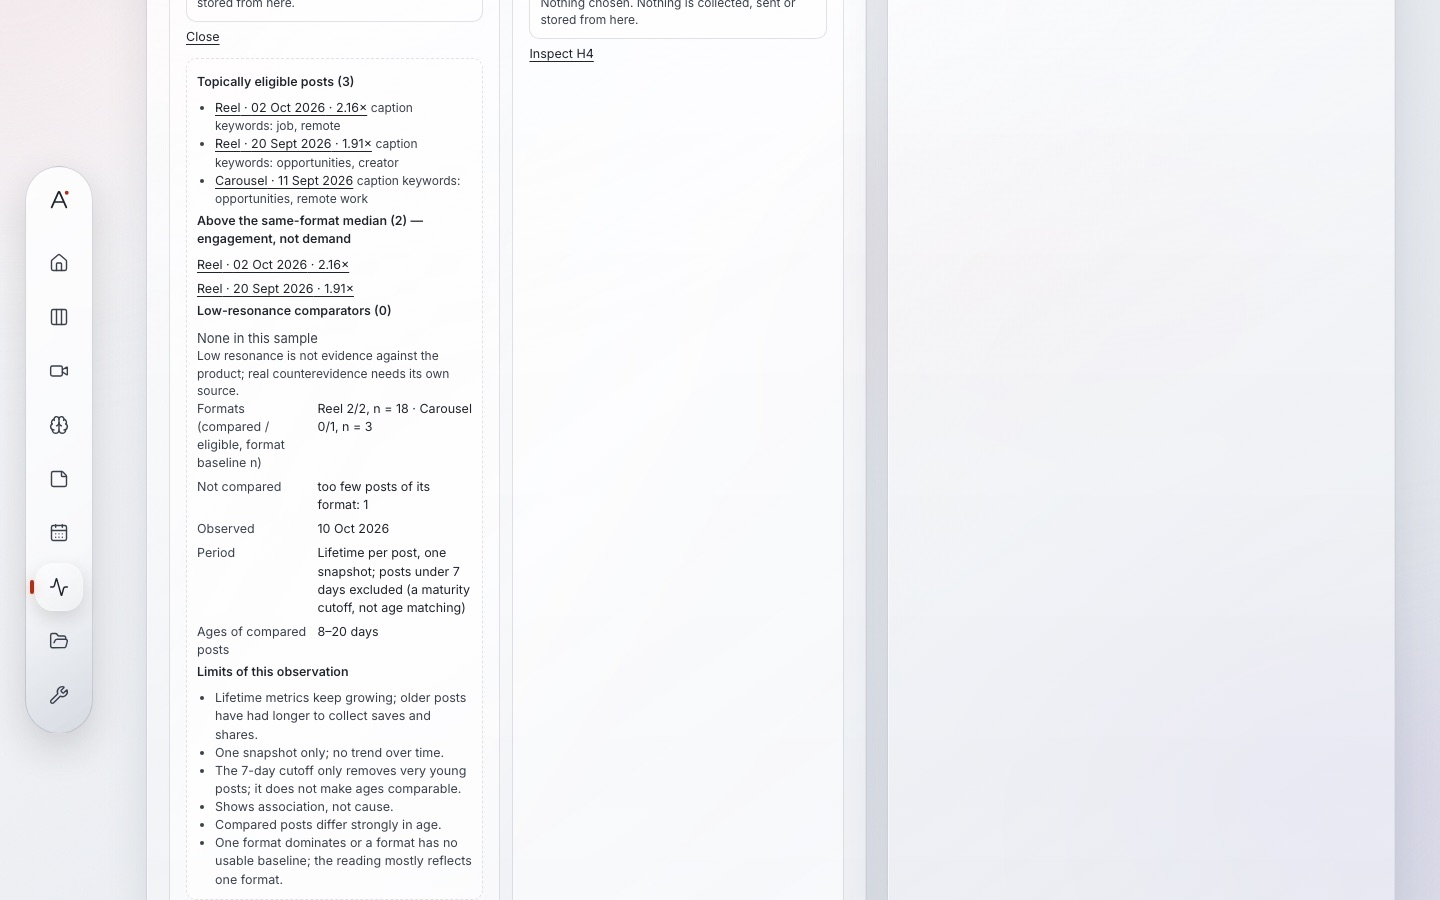
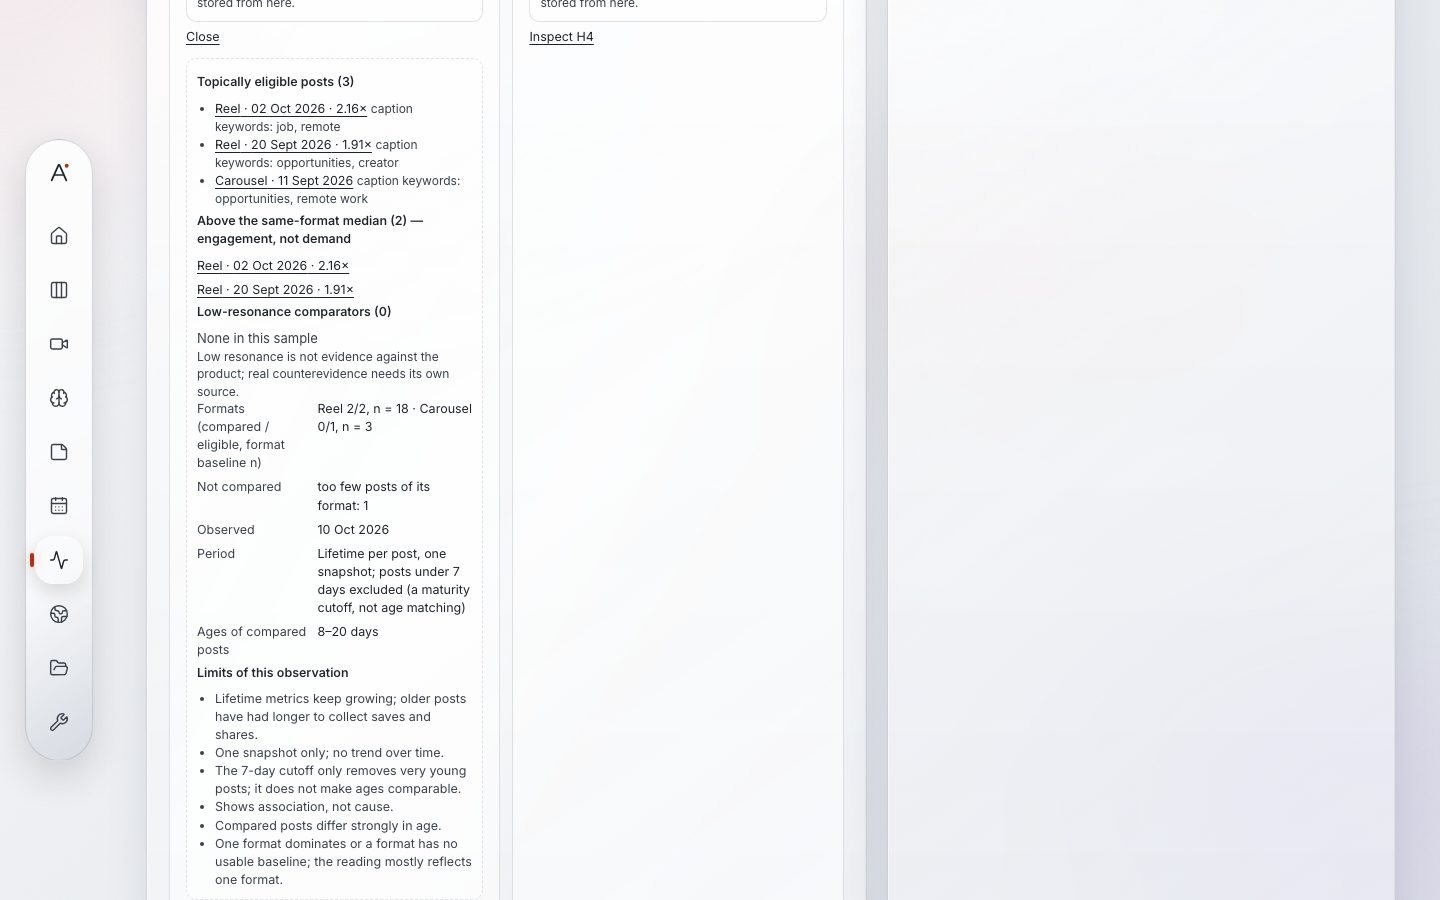
docs(ANA-39): evidence for the integration candidate; rebind R2G(4) to main 0ecd727
Before and after screenshots are captured with the same spec on main 0ecd727
and the candidate, whose fixture and shell files are identical. The historical
baseline images move unchanged to screenshots/baseline-8199150. Outcome Delta
re-measured; the final hashtag repair and the merge of main are recorded.

The R2G(4) rebinding keeps the requirement and adds the file identity of fixture
and shell. No gate state is set.

diff --git a/docs/evidence/ANA-39/CHECKLIST.md b/docs/evidence/ANA-39/CHECKLIST.md
@@ -2,8 +2,9 @@
 
 Jira ANA-39 (parent ANA-1), normative contract Confluence 108920834 v3, DRS contract `.drs/ANA-39.json`.
 Implemented on base `c7b2c069538bee29d2ca41c73ecb3ce6839d8efc` (ANA-38 merged); integrated on 2026-10-31 with main
-`8199150c34d5fc07c0be87b96de32f8157e7938b` (ANA-42 Bright Silver, ANA-35/ANA-45 Brain). Against that main the PR diff holds
-ANA-39 files only: the branch's own PR-head workflow edits were dropped in the merge in favour of main's equivalent
+`8199150c34d5fc07c0be87b96de32f8157e7938b` (ANA-42 Bright Silver, ANA-35/ANA-45 Brain) and on 2026-11-02 with main
+`0ecd727b4e1ce7b7b72d0d346e2cb5065274eb50` (ANA-48 World, ANA-50 release provenance; no conflict, see "Integration with main
+and R2G(4) binding"). Against that main the PR diff holds ANA-39 files only: the branch's own PR-head workflow edits were dropped in the merge in favour of main's equivalent
 `SOURCE_SHA` / `pr-<sha>` convention (`docs/delivery/DRS.md`). Every committed fixture and screenshot is synthetic
 (`apps/dashboard/e2e/fake-social/core.mjs`, inline fixtures in `offers.test.ts`); no real caption, media id, permalink,
 thumbnail, metric value or credential is in this change.
@@ -15,12 +16,12 @@ PASS or FAIL is set by a separate acceptor on the exact candidate SHA (docs/deli
 
 | Area | Change |
 |---|---|
-| `themes.ts` | Themes stay a browsing aid. Hypothesis eligibility (TOPICAL_FIT) has its own rules: **H1** = opportunity/job term **adjacent to (or one word from)** a creator/UGC/remote/brand domain term, or a compact hashtag such as `#ugcjobs`; a generic "opportunity" needs work context (remote-work domain, "job/work opportunities", a call to apply); **H4** = reusable-artifact term (template, checklist, worksheet, media kit, …; "workflow" only with a file cue such as file, PDF, download, Notion). Bare "remote" pairs only with job terms, and the author's own job ("my remote job") is excluded. The ANA-38 family→hypothesis coupling (`opportunities` theme → H1 **and** H4) is removed. Session-only, hypothesis-specific corrections (`include` / `exclude` / caption rule). |
+| `themes.ts` | Themes stay a browsing aid. Hypothesis eligibility (TOPICAL_FIT) has its own rules: **H1** = opportunity/job term **adjacent to (or one word from)** a creator/UGC/remote/brand domain term, or a compact job hashtag such as `#ugcjobs` under the same guards; a generic "opportunity" needs work context (remote-work domain, "job/work opportunities", a call to apply); **H4** = reusable-artifact term (template, checklist, worksheet, media kit, …; "workflow" only with a file cue such as file, PDF, download, Notion). Bare "remote" pairs only with job terms, and the author's own job ("my remote job") is excluded. The ANA-38 family→hypothesis coupling (`opportunities` theme → H1 **and** H4) is removed. Session-only, hypothesis-specific corrections (`include` / `exclude` / caption rule). |
 | `offers.ts` | Per hypothesis four independent lanes: CONTENT_RESONANCE, TOPICAL_FIT, AUDIENCE_NEED (NOT_CONNECTED), COMMERCIAL_OUTCOME (NOT_CONNECTED). No `supporting` / `contradicting`, no blended `SIGNAL`, no `lean`. Above/below same-format median = engagement and low-resonance comparators. Next evidence actions + `ABSTAIN`. `nextTest` (0.25 lean) replaced by a descriptive H1-only/H4-only comparison with the absolute index difference. |
 | `insights.ts` | Calculations unchanged; `high_intent_*` renamed `content_action_*`, semantics documented ((saves + shares) ÷ reach is an action ratio, can exceed 1; 7 days = maturity cutoff, not age matching). |
 | UI | `Patterns.tsx` four-lane card, decision fieldset, inspection with eligible/excluded posts, disclosure (formats + baseline n, not compared + reason, observed, period, ages) and limits. `ContentRows.tsx` per-post topical fit with provenance and session correction. `InstagramCockpit.tsx` holds corrections and passes `stale`. EN/DE/IT: no "high intent" wording. |
 | Live readback | `Patterns.tsx` eligible list carries `data-count` (model total); `e2e-live/social.live.spec.ts` records H1 **and** H4 eligible totals from it (the inspection renders at most 12 rows) and asserts rendered = min(total, 12). |
-| Not touched | `src/app/api/**`, `src/server/**`, `proxy`, auth/access, worker, DTO (`types.ts`), deployment, CI workflows (against main 8199150). No new route, OAuth scope, persistence, storage, network call or external processing. |
+| Not touched | `src/app/api/**`, `src/server/**`, `proxy`, auth/access, worker, DTO (`types.ts`), deployment, CI workflows (against main 0ecd727). No new route, OAuth scope, persistence, storage, network call or external processing. |
 
 ## AC → tests
 
@@ -97,6 +98,26 @@ H4 = syn004, syn013, syn020 (`DERIVED`), both resonance `INSUFFICIENT_EVIDENCE` 
 `NOT_CONNECTED`, suggested step *comparable observations*, comparison `INSUFFICIENT_EVIDENCE` (2/2/0), the override
 qualifies neither. Dropped memberships: H1 syn003, 005, 009, 011, 014, 017, 019 (all travel-family matches); H4
 syn002, 006, 009, 010, 014, 016, 018 (money / how-to / tips) — 14 of 18. The table below holds on that run.
+
+**Re-measured 2026-11-02 on the integration candidate:** model of main `0ecd727` against the candidate model, fixture blob
+`e78cf4a` identical in both trees, 28 posts, throwaway vitest files, not committed. Before: H1 9 posts `SIGNAL` (median 0.87, 4
+supporting, 5 contradicting), H4 9 posts `SIGNAL` (median 1.97, 6 supporting, 3 contradicting), lean `INSUFFICIENT_EVIDENCE`
+(6/6); an `opportunities` override on `syn005` (already H1 through travel) adds it to H4 too. After: H1 syn002, syn008, syn022
+and H4 syn004, syn013, syn020, both `DERIVED` with 0 session corrections and 0 overlap, resonance `INSUFFICIENT_EVIDENCE` (2 of 3
+comparable), need and outcome `NOT_CONNECTED`, suggested step *comparable observations*, comparison `INSUFFICIENT_EVIDENCE`
+(2/2/0); the override qualifies neither. The dropped memberships are the 14 listed above. The fixture has no hashtag caption,
+so the final repair moves no fixture number; its delta is the caption matrix (H1 eligibility; base = the family mapping):
+
+| Caption (synthetic) | Base `0ecd727` | `2fdfab9` | Candidate |
+|---|---|---|---|
+| `#creatoropportunity` / `#creatoropportunities` / `#ugcopportunities` | no | yes | no |
+| `AI is a massive brand opportunity #creatoropportunity` | yes | yes | no |
+| `Not a #ugcjob` / `I quit my #remotejob` | no | yes | no |
+| `#ugcjobs` | no | yes | yes |
+| `How to land your first UGC job` | no (H4 yes) | yes | yes |
+| `Creator opportunities: apply before Friday` / `Brands hiring UGC creators` | yes | yes | yes |
+
+The bare-hashtag and guard false positives were introduced by ANA-39, not inherited from the base. REVENUE_UPLIFT: NOT_MEASURED.
 
 | | Before (ANA-38) | After (ANA-39) |
 |---|---|---|
@@ -196,7 +217,19 @@ own sponsorships without work context ("Grateful for this brand opportunity …"
 accepted: "Here are 5 creator opportunities this week" still abstains, as does any bare "creator opportunities" list
 whose call to apply sits in another clause; "Creator opportunities: casting call for UGC" stays H1 through the casting
 call, but the bare head no longer adds the keywords `opportunities`/`creator`. Not changed (out of this repair's scope):
-the compact hashtags `#creatoropportunity`, `#creatoropportunities` and `#ugcopportunities` still count on their own.
+the compact hashtags `#creatoropportunity`, `#creatoropportunities` and `#ugcopportunities` still counted on their own
+at that commit (closed by the final bounded repair below).
+
+Final bounded repair (PO brief 2026-11-02, on `2fdfab9`; the brief states the product interpretation, Jira and Confluence do
+not yet): a bare generic creator/UGC opportunity hashtag gives no specific job context, and conservative abstention is
+preferred. `ugcopportunities`, `creatoropportunity` and `creatoropportunities` leave `H1_HASHTAG_TERMS`; `ugcjob(s)`,
+`creatorjobs` and `remotejob(s)` stay and now apply the negation, first-person possessive and own-job verb guards of the
+other constructions, read over one clause. The `H1Rule` copy (EN/DE/IT) drops the "creator opportunity" example and states
+that a creator or brand opportunity without job context does not qualify; each example it names is accepted by the rule.
+Proof: `offers.test.ts` block "AC2 final repair · …", 15 failed / 62 passed on the unchanged `2fdfab9` classifier and copy,
+77 / 77 after the change. Known cost, pinned: a job hashtag in a clause holding a guard word abstains ("No experience needed
+#ugcjobs", "Got a new camera #ugcjobs"); a hashtag in its own clause or line still counts. The praise guard was not extended
+to hashtags (the brief names negation and own-job). Session-only inclusion stays available for every abstained post.
 
 Residual limit (stated, not hidden): a caption keyword rule cannot read intent. Without the gate, captions that mention
 the author's own current job carry no guard cue and are now DERIVED ("Just shot a UGC job for a skincare brand", "BTS of
@@ -217,9 +250,12 @@ DERIVED suggestion, never confirmed demand; a reviewed classification is not par
 
 ## Screenshots (synthetic fake worker)
 
-Regenerated 2026-10-31: `screenshots/before-*` = main `8199150` (pre-ANA-39 model on the ANA-42 Bright Silver shell);
-`screenshots/after-*` = the integrated candidate's app tree. Same fixture, same framing (one throwaway spec run on
-both trees: offer-signals panel element, H1 inspection viewport, ABSTAIN decision, row detail of syn004).
+Regenerated 2026-11-02: `screenshots/before-*` = main `0ecd727` (pre-ANA-39 model on its shell); `screenshots/after-*` =
+the integrated candidate's app tree. One throwaway spec ran on both trees with the same steps, viewport and reduced motion:
+offer-signals panel element, H1 inspection viewport, ABSTAIN decision, row detail of syn004. The inspection image uses the same
+`scrollIntoViewIfNeeded` step on both trees; the after panel is taller, so the two scroll positions differ. All text is synthetic
+(fake worker). Historical baseline: `screenshots/baseline-8199150/before-*`, unchanged files from main `8199150`; the
+previous after-images stay in the history of `2fdfab9`.
 
 - `before-1440x900-offer-signals-panel.jpg` / `after-1440x900-offer-signals-panel.jpg` — whole offer-signals panel
 - `before-390x844-offer-signals-panel.jpg` / `after-390x844-offer-signals-panel.jpg` — same on mobile
@@ -238,6 +274,20 @@ transfer). Run exactly as for
 ANA-38 (`docs/evidence/ANA-38/CHECKLIST.md` → "Live proof"). `e2e-live/social.live.spec.ts` records, per
 hypothesis, the four lane states and the suggested next step, the H1 and H4 eligible totals with their derived /
 session split (model counts) and the comparison state — counts and states only. Post the `live-social-result.json` summary to Jira ANA-39.
+
+## Integration with main and R2G(4) binding
+
+Merge of `0ecd727` on 2026-11-02: no conflict. `ContentRows.tsx` auto-merged and keeps both ANA-39's topical-fit row and
+ANA-48's `image_url` thumbnail fallback. Against `0ecd727` these paths are unchanged (`git diff --quiet`, rc 0, canary on
+`themes.ts` rc 1): `e2e/fake-social`, `fake-jira`, `fake-brain`, `fixtures.ts`, `visual.spec.ts`, `playwright.config.ts`,
+`next.config.ts`, `src/components/shell`, `src/app`, `src/lib`; also `src/server`, `src/proxy.ts`, `src/features/world`,
+`src/features/social/types.ts`, `workers`, `deploy`, `.github`. `/api/world*` passes the same access gate
+(`refuseUnauthorized`, `readWriteRequest`). So fixture, shell and harness of the before and after images are the same files.
+
+R2G(4) named main `8199150` as the current base. It is rebound to `0ecd727`: 8199150 lacks the ANA-48 World navigation entry,
+so its shell is no longer the current one. The requirements are kept and the identity of fixture and shell is added.
+ANA-48's cover-image vision call (`src/server/world/vision.ts`, off without `ANTHROPIC_API_KEY`) arrives from main; this change
+adds no external processing, and the AC6 statement is bound to the ANA-39 diff.
 
 ## Integration with LIVE-01 (PR #12)
 
